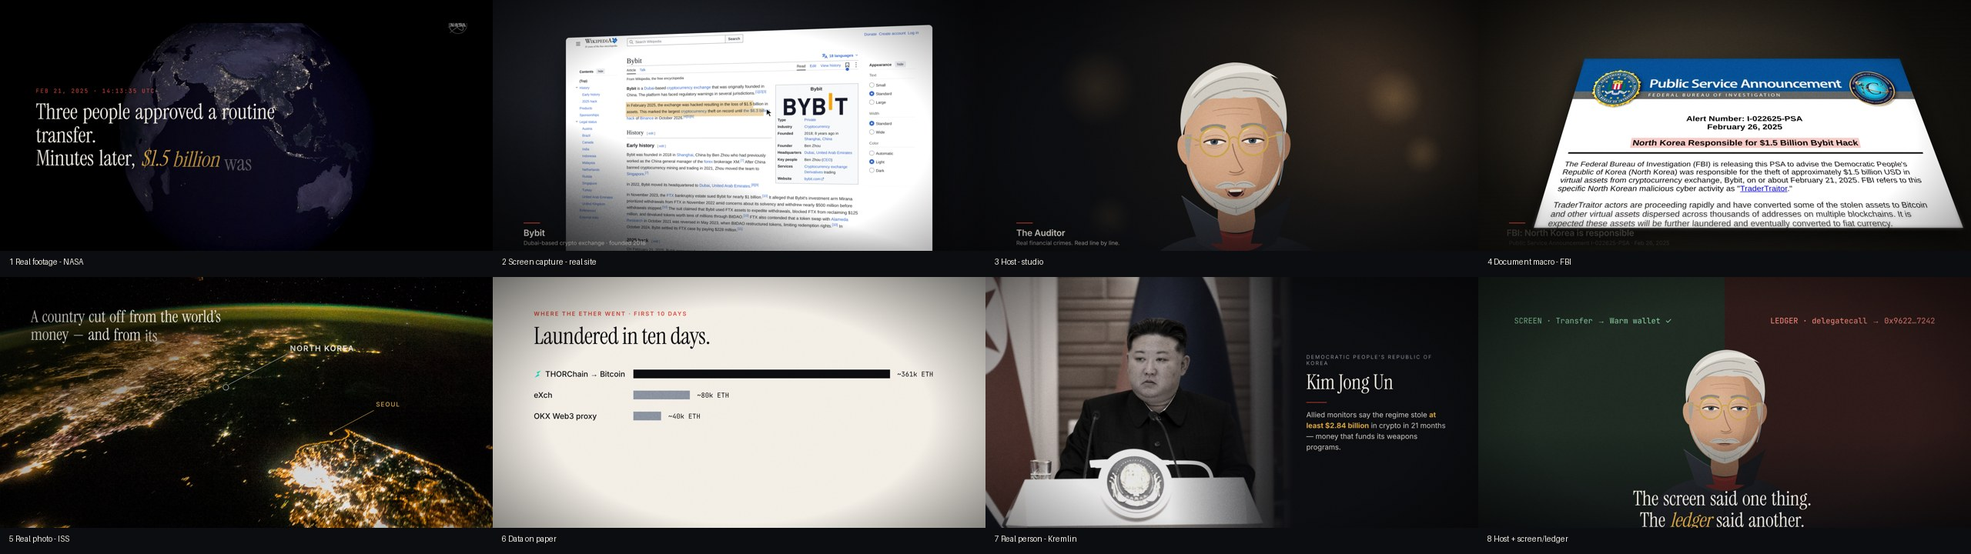
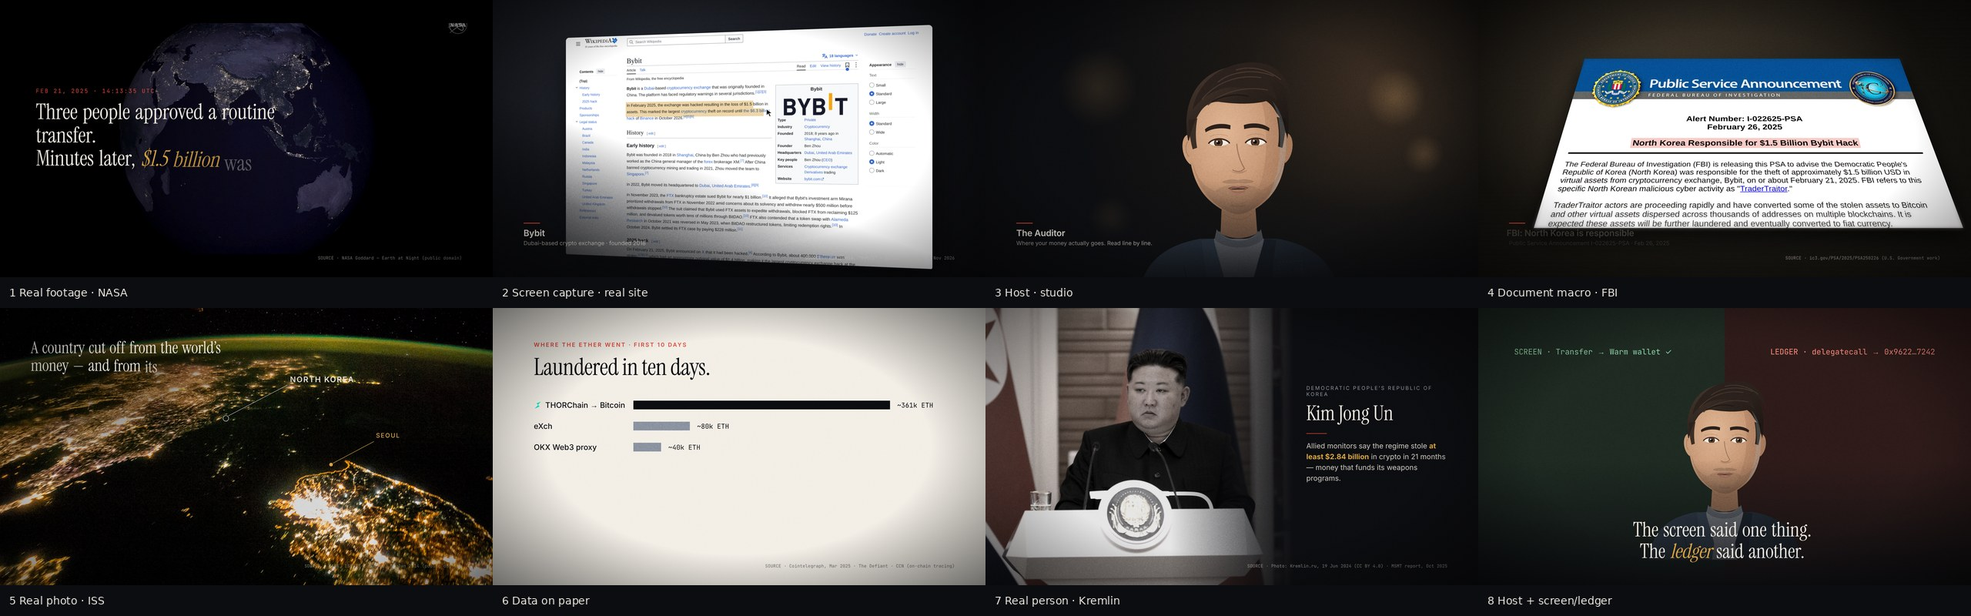
Broaden channel scope to everyday US money problems; host v4 (man in his early 30s); voice spec for 25-35 American male; re-render host stills
Claude-Session: https://claude.ai/code/session_01TRyNBdH3SN5VuDPpSJ3dtg

diff --git a/studio/src/host/Host.tsx b/studio/src/host/Host.tsx
@@ -2,128 +2,137 @@ import React from 'react';
 import { interpolate, useCurrentFrame } from 'remotion';
 import { noise2D } from '@remotion/noise';
 
-// THE AUDITOR — host v3.
-// Recognisable face: silver swept-back hair, short grey beard, round gold glasses,
-// oxblood scarf, charcoal overcoat with a raised collar. Light always from the left.
-// Driven by numbers so it can lip-sync to the real voice later (talk = mouth openness 0..1).
+// THE AUDITOR — host v4 (replaces the 60-year-old v3).
+// A man around 30 (25–35): dark brown hair, short sides, textured top pushed to one side;
+// light designer stubble; thick dark brows; brown eyes; no glasses.
+// Wardrobe: washed-navy chore jacket open over a heather-grey crew-neck tee — someone
+// who looks like the viewer, not a professor. Light always from the left, cool rim from the right.
+// Same pose API as v3, so every scene and the later lip-sync keep working.
 
 export type HostPose = {
   talk: number;   // 0 closed .. 1 wide
   blink: number;  // 0 open .. 1 closed
   look: number;   // -1 left .. 1 right (pupils)
   brow: number;   // 0 neutral .. 1 raised
-  smile: number;  // 0 .. 1 (knowing half-smile)
+  smile: number;  // 0 .. 1 (half-smile)
   tilt: number;   // head tilt in degrees
   nod: number;    // px vertical head offset
 };
 
 const K = {
-  skin: '#C99C7C', skinLit: '#DDB596', skinShade: '#9A6F55', skinDeep: '#7E5844',
-  hair: '#CFCBC3', hairShade: '#A29E96', beard: '#BCB7AE', beardShade: '#8F8A82',
-  iris: '#40525F', lid: '#3A2A22', gold: '#C9A24A', goldHi: '#F0D489',
-  coat: '#23262C', coatLit: '#30343C', coatDeep: '#18191D', scarf: '#7A2A25', scarfHi: '#94352E',
+  skin: '#C99A78', skinLit: '#E0B694', skinShade: '#A77A5C', skinDeep: '#86604A',
+  hair: '#2B211C', hairLit: '#4A3A30', hairShade: '#1A1411', stubble: '#3A2C24',
+  iris: '#5A3E2B', lid: '#3A2620', brow: '#2A1F1A', lip: '#A86A5C', lipDark: '#7E4A40',
+  jacket: '#2D3A48', jacketLit: '#3C4C5E', jacketDeep: '#1E2731', stitch: '#5D6E80',
+  tee: '#8C9097', teeShade: '#6E7279',
 };
 
 export const HostFigure: React.FC<{ p: HostPose; style?: React.CSSProperties }> = ({ p, style }) => {
   const eyeScale = 1 - 0.92 * p.blink;
-  const mouthH = 3 + p.talk * 24;
-  const mouthW = 50 - p.talk * 8 + p.smile * 6;
+  const mouthH = 2 + p.talk * 22;
+  const mouthW = 46 - p.talk * 8 + p.smile * 6;
   const lx = p.look * 6;
   const eye = (cx: number) => (
-    <g transform={`translate(${cx} 322) scale(1 ${eyeScale})`}>
-      <path d="M-28 0 C -16 -15, 16 -15, 28 0 C 16 10, -16 10, -28 0 Z" fill="#EEE6DA" />
-      <clipPath id={`e${cx}`}><path d="M-28 0 C -16 -15, 16 -15, 28 0 C 16 10, -16 10, -28 0 Z" /></clipPath>
+    <g transform={`translate(${cx} 326) scale(1 ${eyeScale})`}>
+      <path d="M-27 0 C -15 -16, 15 -16, 27 0 C 15 11, -15 11, -27 0 Z" fill="#F1EBE2" />
+      <clipPath id={`e${cx}`}><path d="M-27 0 C -15 -16, 15 -16, 27 0 C 15 11, -15 11, -27 0 Z" /></clipPath>
       <g clipPath={`url(#e${cx})`}>
-        <circle cx={lx} cy={-1} r={10.5} fill={K.iris} />
-        <circle cx={lx} cy={-1} r={4.6} fill="#0D0D0F" />
-        <circle cx={lx - 3.5} cy={-4.5} r={2.2} fill="#fff" opacity={0.9} />
-        <path d="M-30 -16 L 30 -16 L 30 -2 C 14 -7, -14 -7, -30 -2 Z" fill={K.skin} />
+        <circle cx={lx} cy={-1} r={11} fill={K.iris} />
+        <circle cx={lx} cy={-1} r={11} fill="none" stroke="#2E1F15" strokeWidth={1.6} />
+        <circle cx={lx} cy={-1} r={4.8} fill="#0D0B0A" />
+        <circle cx={lx - 3.5} cy={-4.5} r={2.4} fill="#fff" opacity={0.92} />
+        {/* upper lid shadow only — young eyes, not hooded */}
+        <path d="M-30 -17 L 30 -17 L 30 -9 C 14 -13, -14 -13, -30 -9 Z" fill={K.skin} />
       </g>
-      <path d="M-29 0 C -16 -8, 16 -8, 29 0" stroke={K.lid} strokeWidth={4.2} fill="none" strokeLinecap="round" />
-      <path d="M-26 -12 C -12 -20, 12 -20, 26 -12" stroke={K.skinDeep} strokeWidth={1.6} fill="none" opacity={0.55} />
-      <path d="M-20 12 C -8 18, 8 18, 20 12" stroke={K.skinDeep} strokeWidth={1.2} fill="none" opacity={0.4} />
-      <path d="M-22 7 C -10 12, 10 12, 22 7" stroke={K.skinDeep} strokeWidth={1.4} fill="none" opacity={0.6} />
+      <path d="M-28 0 C -16 -15, 16 -15, 28 0" stroke={K.lid} strokeWidth={3.8} fill="none" strokeLinecap="round" />
+      <path d="M-24 -18 C -10 -25, 10 -25, 24 -18" stroke={K.skinDeep} strokeWidth={1.4} fill="none" opacity={0.4} />
+      <path d="M-20 9 C -8 13, 8 13, 20 9" stroke={K.skinDeep} strokeWidth={1.1} fill="none" opacity={0.35} />
     </g>
+  );
+  const shut = (cx: number) => p.blink > 0.6 && (
+    <path d={`M${cx - 27} 325 C ${cx - 12} 333, ${cx + 12} 333, ${cx + 27} 325`} stroke={K.lid} strokeWidth={3.6} fill="none" strokeLinecap="round" />
   );
   return (
     <svg viewBox="0 0 600 760" style={style}>
       <defs>
-        <radialGradient id="skin" cx="38%" cy="35%" r="70%">
+        <radialGradient id="skin4" cx="38%" cy="35%" r="70%">
           <stop offset="0%" stopColor={K.skinLit} />
           <stop offset="60%" stopColor={K.skin} />
           <stop offset="100%" stopColor={K.skinShade} />
         </radialGradient>
-        <linearGradient id="coat" x1="0" x2="1">
-          <stop offset="0%" stopColor={K.coatLit} /><stop offset="55%" stopColor={K.coat} /><stop offset="100%" stopColor={K.coatDeep} />
+        <linearGradient id="jacket4" x1="0" x2="1">
+          <stop offset="0%" stopColor={K.jacketLit} /><stop offset="55%" stopColor={K.jacket} /><stop offset="100%" stopColor={K.jacketDeep} />
         </linearGradient>
-        <linearGradient id="lens" x1="0" x2="1" y1="0" y2="1">
-          <stop offset="0%" stopColor="#fff" stopOpacity={0.16} /><stop offset="45%" stopColor="#fff" stopOpacity={0.02} /><stop offset="100%" stopColor="#fff" stopOpacity={0.08} />
+        <linearGradient id="hair4" x1="0" x2="1" y1="0" y2="1">
+          <stop offset="0%" stopColor={K.hairLit} /><stop offset="50%" stopColor={K.hair} /><stop offset="100%" stopColor={K.hairShade} />
         </linearGradient>
+        <radialGradient id="stubble4" cx="50%" cy="30%" r="75%">
+          <stop offset="55%" stopColor={K.stubble} stopOpacity={0.12} />
+          <stop offset="100%" stopColor={K.stubble} stopOpacity={0.34} />
+        </radialGradient>
       </defs>
 
-      {/* body: coat + raised collar + scarf */}
-      <path d="M20 760 C 30 650, 90 600, 190 580 L 410 580 C 510 600, 570 650, 580 760 Z" fill="url(#coat)" />
-      <path d="M300 600 L 300 760" stroke={K.coatDeep} strokeWidth={5} />
-      <path d="M196 600 L 150 470 C 190 500, 220 520, 250 535 L 300 650 Z" fill={K.coatLit} />
-      <path d="M404 600 L 450 470 C 410 500, 380 520, 350 535 L 300 650 Z" fill={K.coatDeep} />
-      <path d="M150 470 C 190 500, 220 520, 250 535" stroke="#4E5460" strokeWidth={2.5} fill="none" />
-      <path d="M232 540 C 260 585, 340 585, 368 540 L 372 600 C 340 630, 260 630, 228 600 Z" fill={K.scarf} />
-      <path d="M240 560 C 270 590, 330 590, 360 560" stroke={K.scarfHi} strokeWidth={6} fill="none" opacity={0.7} />
+      {/* body: grey tee + open navy chore jacket */}
+      <path d="M24 760 C 34 652, 96 604, 196 586 L 404 586 C 504 604, 566 652, 576 760 Z" fill="url(#jacket4)" />
+      <path d="M232 586 L 368 586 L 346 760 L 254 760 Z" fill={K.tee} />
+      <path d="M300 640 L 300 760" stroke={K.teeShade} strokeWidth={2} opacity={0.35} />
+      <path d="M240 560 C 262 600, 338 600, 360 560 L 366 586 C 340 618, 260 618, 234 586 Z" fill={K.teeShade} />
+      <path d="M246 566 C 268 598, 332 598, 354 566" stroke="#A3A7AD" strokeWidth={4} fill="none" opacity={0.55} />
+      {/* jacket lapels (soft collar, folded down) */}
+      <path d="M198 590 L 230 586 L 262 700 L 254 760 L 210 760 C 214 700, 206 640, 198 590 Z" fill={K.jacketLit} />
+      <path d="M402 590 L 370 586 L 338 700 L 346 760 L 390 760 C 386 700, 394 640, 402 590 Z" fill={K.jacketDeep} />
+      <path d="M232 588 L 262 700 M368 588 L 338 700" stroke={K.stitch} strokeWidth={1.8} strokeDasharray="5 5" opacity={0.6} />
+      <path d="M150 660 C 160 700, 165 730, 168 760 M450 660 C 440 700, 435 730, 432 760" stroke={K.jacketDeep} strokeWidth={3} fill="none" opacity={0.7} />
+      {/* chest pocket */}
+      <path d="M408 650 L 470 646 L 474 700 L 412 704 Z" fill="none" stroke={K.stitch} strokeWidth={1.6} strokeDasharray="5 5" opacity={0.5} />
 
       <g transform={`translate(0 ${p.nod}) rotate(${p.tilt} 300 560)`}>
-        {/* neck */}
-        <path d="M252 470 L 348 470 L 352 560 C 320 575, 280 575, 248 560 Z" fill={K.skinShade} />
+        {/* neck — longer, leaner */}
+        <path d="M256 470 L 344 470 L 350 572 C 320 590, 280 590, 250 572 Z" fill={K.skinShade} />
+        <path d="M262 520 C 290 540, 312 540, 338 520" stroke={K.skinDeep} strokeWidth={2} fill="none" opacity={0.35} />
         {/* ears */}
-        <path d="M168 300 C 140 295, 138 360, 168 382 Z" fill={K.skin} />
-        <path d="M432 300 C 460 295, 462 360, 432 382 Z" fill={K.skinShade} />
-        {/* head */}
-        <path d="M300 168 C 388 168, 436 232, 436 330 C 436 430, 388 512, 300 522 C 212 512, 164 430, 164 330 C 164 232, 212 168, 300 168 Z" fill="url(#skin)" />
-        <path d="M352 182 C 410 205, 436 262, 436 330 C 436 430, 388 512, 300 522 C 350 490, 380 420, 380 330 C 380 260, 372 215, 352 182 Z" fill={K.skinShade} opacity={0.45} />
-        {/* forehead lines (age, wisdom) */}
-        <path d="M245 238 C 280 230, 320 230, 355 238" stroke={K.skinDeep} strokeWidth={1.6} fill="none" opacity={0.45} />
-        <path d="M255 252 C 285 246, 315 246, 345 252" stroke={K.skinDeep} strokeWidth={1.4} fill="none" opacity={0.35} />
-        {/* hair: silver, swept back, receding */}
-        <path d="M160 310 C 140 200, 205 112, 305 108 C 410 110, 465 195, 440 310 C 436 280, 428 258, 414 246 C 400 232, 392 212, 372 206 C 350 200, 330 210, 305 202 C 280 210, 258 200, 236 206 C 214 212, 204 232, 188 246 C 174 258, 164 282, 160 310 Z" fill={K.hair} />
-        <path d="M186 196 C 226 112, 344 88, 426 156 C 362 122, 262 128, 186 196 Z" fill="#E6E3DC" />
-        <path d="M196 200 C 240 150, 310 138, 372 158 M212 220 C 256 180, 326 168, 398 190 M186 252 C 205 210, 245 188, 292 184 M330 186 C 370 186, 405 200, 425 232" stroke={K.hairShade} strokeWidth={3} fill="none" strokeLinecap="round" />
-        <path d="M168 300 C 166 335, 170 360, 176 372 L 186 300 Z" fill={K.hairShade} />
-        <path d="M432 300 C 434 335, 430 360, 424 372 L 414 300 Z" fill={K.hairShade} />
-        {/* brows */}
-        <g transform={`translate(0 ${-p.brow * 7})`}>
-          <path d="M210 286 C 228 272, 258 270, 280 280 L 278 288 C 258 281, 230 283, 212 294 Z" fill="#8C877F" />
-          <path d="M390 286 C 372 272, 342 270, 320 280 L 322 288 C 342 281, 370 283, 388 294 Z" fill="#8C877F" />
+        <path d="M172 302 C 144 296, 142 362, 172 384 Z" fill={K.skin} />
+        <path d="M428 302 C 456 296, 458 362, 428 384 Z" fill={K.skinShade} />
+        <path d="M166 320 C 156 330, 158 352, 168 362" stroke={K.skinDeep} strokeWidth={2} fill="none" opacity={0.5} />
+        {/* head — leaner cheeks, defined jaw and chin */}
+        <path d="M300 170 C 386 170, 432 232, 432 326 C 432 400, 412 450, 378 482 C 352 506, 330 518, 300 520 C 270 518, 248 506, 222 482 C 188 450, 168 400, 168 326 C 168 232, 214 170, 300 170 Z" fill="url(#skin4)" />
+        <path d="M352 184 C 408 206, 432 262, 432 326 C 432 400, 412 450, 378 482 C 352 506, 330 518, 300 520 C 342 494, 376 430, 378 330 C 380 262, 372 216, 352 184 Z" fill={K.skinShade} opacity={0.42} />
+        {/* stubble: short, even, follows the jaw (no moustache block) */}
+        <path d="M176 372 C 184 432, 214 474, 250 500 C 270 514, 286 520, 300 520 C 314 520, 330 514, 350 500 C 386 474, 416 432, 424 372 C 414 420, 392 446, 362 456 C 346 444, 322 438, 300 440 C 278 438, 254 444, 238 456 C 208 446, 186 420, 176 372 Z" fill="url(#stubble4)" />
+        <path d="M256 432 C 272 424, 290 424, 300 428 C 310 424, 328 424, 344 432 C 334 438, 316 438, 300 436 C 284 438, 266 438, 256 432 Z" fill={K.stubble} opacity={0.22} />
+        <path d="M282 496 C 292 500, 308 500, 318 496" stroke={K.stubble} strokeWidth={6} opacity={0.12} strokeLinecap="round" />
+        {/* hair: full hairline, short tapered sides, textured top pushed to his left */}
+        <path d="M166 318 C 152 240, 176 168, 236 136 C 268 118, 318 112, 360 124 C 420 142, 452 200, 436 318 C 430 286, 422 264, 408 248 C 400 232, 392 222, 380 214 C 350 222, 300 222, 252 214 C 230 212, 210 224, 198 244 C 186 262, 176 286, 168 318 Z" fill="url(#hair4)" />
+        <path d="M180 234 C 190 170, 250 112, 336 108 C 404 106, 444 150, 446 200 C 430 168, 400 150, 370 146 C 392 162, 404 184, 408 212 C 380 186, 330 172, 276 176 C 240 180, 206 200, 180 234 Z" fill={K.hair} />
+        <path d="M206 206 C 246 160, 306 140, 366 150 M222 222 C 262 186, 322 172, 384 184 M250 160 C 290 130, 350 126, 400 146 M300 128 C 336 118, 380 124, 420 156" stroke={K.hairLit} strokeWidth={3} fill="none" strokeLinecap="round" opacity={0.85} />
+        <path d="M232 214 C 262 196, 300 192, 330 200" stroke={K.hairShade} strokeWidth={4} fill="none" strokeLinecap="round" opacity={0.7} />
+        {/* sideburns: short, tapered, in front of the ears */}
+        <path d="M168 262 C 168 290, 172 318, 178 342 L 190 338 C 186 314, 186 288, 192 258 Z" fill={K.hair} opacity={0.9} />
+        <path d="M432 262 C 432 290, 428 318, 422 342 L 410 338 C 414 314, 414 288, 408 258 Z" fill={K.hairShade} opacity={0.9} />
+        {/* brows — thick, dark, straight */}
+        <g transform={`translate(0 ${-p.brow * 8})`}>
+          <path d="M212 290 C 228 276, 258 272, 282 280 L 281 291 C 258 285, 232 287, 214 298 Z" fill={K.brow} />
+          <path d="M388 290 C 372 276, 342 272, 318 280 L 319 291 C 342 285, 368 287, 386 298 Z" fill={K.brow} />
         </g>
-        {eye(248)}{eye(352)}
-        {/* crow's feet */}
-        <path d="M282 330 m 0 0 M206 320 l -12 -6 M206 328 l -13 2 M394 320 l 12 -6 M394 328 l 13 2" stroke={K.skinDeep} strokeWidth={1.5} opacity={0.5} />
-        {/* nose */}
-        <path d="M296 330 C 300 360, 312 385, 322 400 C 312 410, 296 410, 286 404" stroke={K.skinDeep} strokeWidth={3} fill="none" strokeLinecap="round" opacity={0.75} />
-        <path d="M270 402 C 280 414, 300 416, 330 404 C 320 418, 290 422, 270 402 Z" fill={K.skinDeep} opacity={0.5} />
-        {/* beard (short, trimmed) */}
-        <path d="M176 380 C 182 450, 230 512, 300 524 C 370 512, 418 450, 424 380 C 410 430, 384 456, 350 462 C 335 486, 265 486, 250 462 C 216 456, 190 430, 176 380 Z" fill={K.beard} />
-        <path d="M200 430 C 220 470, 255 498, 300 506 M400 430 C 380 470, 345 498, 300 506 M240 488 l 6 14 M300 500 l 0 16 M360 488 l -6 14" stroke={K.beardShade} strokeWidth={2.4} fill="none" strokeLinecap="round" opacity={0.8} />
-        {/* mouth */}
+        {eye(250)}{eye(350)}{shut(250)}{shut(350)}
+        {/* nose — straighter, cleaner */}
+        <path d="M298 330 C 300 358, 308 380, 318 396 C 310 406, 296 406, 286 400" stroke={K.skinDeep} strokeWidth={2.8} fill="none" strokeLinecap="round" opacity={0.7} />
+        <path d="M274 398 C 284 408, 302 410, 326 400 C 316 412, 290 414, 274 398 Z" fill={K.skinDeep} opacity={0.42} />
+        {/* cheek light */}
+        <ellipse cx={232} cy={384} rx={34} ry={20} fill="#F0C6A4" opacity={0.07} />
+        {/* mouth: visible lips, no moustache */}
         <g transform={`translate(300 ${452 + p.talk * 4})`}>
           <ellipse cx={0} cy={mouthH / 2 - 2} rx={mouthW / 2} ry={mouthH / 2} fill="#2A1513" />
-          {p.talk > 0.3 && <rect x={-mouthW / 2 + 6} y={-2} width={mouthW - 12} height={Math.min(7, mouthH / 3)} rx={3} fill="#E6DED0" />}
-          <path d={`M${-mouthW / 2 - 4} ${-1 - p.smile * 5} C -10 ${mouthH + 6}, 10 ${mouthH + 6}, ${mouthW / 2 + 4} ${-1 - p.smile * 7}`} stroke="#A2685A" strokeWidth={4} fill="none" strokeLinecap="round" />
+          {p.talk > 0.3 && <rect x={-mouthW / 2 + 6} y={-2} width={mouthW - 12} height={Math.min(7, mouthH / 3)} rx={3} fill="#EDE6DA" />}
+          <path d={`M${-mouthW / 2 - 2} ${-1 - p.smile * 4} C -14 -8, -4 -5, 0 -4 C 4 -5, 14 -8, ${mouthW / 2 + 2} ${-1 - p.smile * 6}`} stroke={K.lipDark} strokeWidth={3} fill="none" strokeLinecap="round" />
+          <path d={`M${-mouthW / 2 + 4} ${mouthH - 1} C -10 ${mouthH + 9}, 10 ${mouthH + 9}, ${mouthW / 2 - 4} ${mouthH - 1}`} stroke={K.lip} strokeWidth={5} fill="none" strokeLinecap="round" opacity={0.75} />
+          <path d={`M${mouthW / 2 + 2} ${-1 - p.smile * 6} l 5 ${-2 - p.smile * 3}`} stroke={K.skinDeep} strokeWidth={2} strokeLinecap="round" opacity={0.3 + p.smile * 0.4} />
         </g>
-        {/* moustache */}
-        <path d="M244 446 C 262 426, 290 428, 300 438 C 310 428, 338 426, 356 446 C 340 452, 320 450, 300 446 C 280 450, 260 452, 244 446 Z" fill={K.beard} />
-        <path d="M252 444 C 268 434, 288 434, 298 442 M348 444 C 332 434, 312 434, 302 442" stroke={K.beardShade} strokeWidth={2} fill="none" />
-        {/* cool rim light, right side: cinematic two-light look */}
-        <path d="M430 262 C 440 300, 440 380, 418 444" stroke="#A9BED2" strokeWidth={3.5} fill="none" opacity={0.55} strokeLinecap="round" />
-        {/* glasses */}
-        <g stroke={K.gold} fill="url(#lens)" strokeWidth={4.5}>
-          <circle cx={248} cy={322} r={40} /><circle cx={352} cy={322} r={40} />
-        </g>
-        <path d="M288 318 C 294 308, 306 308, 312 318" stroke={K.gold} strokeWidth={4} fill="none" />
-        <path d="M208 316 L 168 306 M392 316 L 432 306" stroke={K.gold} strokeWidth={3.5} />
-        <path d="M222 296 L 236 290 M326 296 L 340 290" stroke={K.goldHi} strokeWidth={3} strokeLinecap="round" opacity={0.9} />
-      </g>
-      {/* collar front layer so it frames the jaw */}
-      <path d="M196 600 L 160 488 C 196 514, 222 530, 250 540 L 262 600 Z" fill={K.coatLit} opacity={0.96} />
-      <path d="M404 600 L 440 488 C 404 514, 378 530, 350 540 L 338 600 Z" fill={K.coatDeep} opacity={0.96} />
+        {/* chin shadow */}
+        <path d="M280 488 C 292 494, 308 494, 320 488" stroke={K.skinDeep} strokeWidth={2} fill="none" opacity={0.35} />
+        {/* cool rim: soft edge wash instead of a hard line */}
+        <path d="M432 326 C 432 400, 412 450, 378 482 C 400 440, 414 390, 416 330 C 418 280, 410 240, 396 214 C 420 240, 432 280, 432 326 Z" fill="#A9BED2" opacity={0.22} />
+              </g>
     </svg>
   );
 };

diff --git a/studio/src/boards/Boards.tsx b/studio/src/boards/Boards.tsx
@@ -23,8 +23,8 @@ export const BoardCharacter: React.FC = () => {
   const ex: [string, string, Partial<HostPose>][] = [
     ['Neutral', 'default · listening', {}],
     ['Speaking', 'mouth driven by voice', { talk: 0.75 }],
-    ['Skeptical', 'one beat before a reveal', { brow: 0.9, smile: 0, look: 0.5 }],
-    ['Knowing smile', 'end of a chapter', { smile: 0.9, tilt: -4 }],
+    ['Skeptical', 'one beat before the bill', { brow: 0.9, smile: 0, look: 0.5 }],
+    ['Half-smile', 'end of a chapter', { smile: 0.9, tilt: -4 }],
     ['Side glance', 'looks at the evidence', { look: -1, tilt: 3 }],
     ['Blink', 'every ~3 s, never frozen', { blink: 1 }],
   ];
@@ -32,7 +32,7 @@ export const BoardCharacter: React.FC = () => {
     <AbsoluteFill style={{ background: `radial-gradient(circle at 80% 15%, #2B2219, ${C.ink} 60%)` }}>
       <Header kicker="MAIN CHARACTER · HOST" title="The Auditor" />
       <div style={{ position: 'absolute', right: 110, top: 96, width: 640, fontFamily: F.sans, fontSize: 21, lineHeight: 1.55, color: 'rgba(236,231,222,.75)' }}>
-        Silver swept-back hair, short grey beard, round gold glasses, hooded eyes, oxblood scarf, charcoal overcoat with a raised collar. Warm key light from the left, cool rim from the right. On screen only 10–15% of an episode.
+        Early 30s. Dark brown hair, short sides, textured top; light stubble; thick dark brows; brown eyes. Washed-navy chore jacket over a grey tee: he looks like the viewer. Warm key light from the left, cool rim from the right. On screen only 10–15% of an episode.
       </div>
       <div style={{ position: 'absolute', left: 60, right: 60, top: 300, display: 'flex', justifyContent: 'space-between' }}>
         {ex.map(([t, s, p]) => (

diff --git a/studio/src/scenes/Scenes.tsx b/studio/src/scenes/Scenes.tsx
@@ -69,7 +69,7 @@ export const S3Host: React.FC = () => {
         <Host seed="intro" look={-0.15} smile={0.3} style={{ width: 860 }} />
       </div>
       <AbsoluteFill style={{ background: 'linear-gradient(0deg, rgba(12,13,16,.85), transparent 35%)' }} />
-      <LowerThird at={18} title="The Auditor" sub="Real financial crimes. Read line by line." />
+      <LowerThird at={18} title="The Auditor" sub="Where your money actually goes. Read line by line." />
     </AbsoluteFill>
   );
 };

diff --git a/style/STYLE-v3.md b/style/STYLE-v3.md
@@ -10,7 +10,7 @@
 | قالب واحد وخلفية واحدة وزاوية واحدة | **8 أنواع لقطات** (القائمة أدناه)، ولا يتكرر النوع نفسه مرتين متتاليتين |
 | أيقونات كرتونية ومشبعة | لا أيقونات مرسومة تقريباً. الشعارات الحقيقية فقط، وبحجم صغير. والخطوط التوضيحية رفيعة (1.5px) فوق صور حقيقية |
 | كل شيء رسوم | **مواد حقيقية أولاً:** فيديو NASA، وصور ISS، ولقطات شاشة حقيقية من Wikipedia وic3.gov، وصور الكرملين، وأوراق نقدية رسمية |
-| شخصية بلا وجه | **المضيف v3:** رجل حكيم بشعر فضي ولحية قصيرة ونظارة ذهبية مستديرة. يتكلم ويرمش ويتنفس ويحرك رأسه |
+| شخصية بلا وجه | **المضيف v4:** رجل في أوائل الثلاثينات بجاكيت كحلي (القسم 5). يتكلم ويرمش ويتنفس ويحرك رأسه |
 | عربي وكحلي | **إنجليزي**، وألوان سينمائية منخفضة التشبع |
 | حركة متقطعة | كاميرا تتحرك دائماً (push، dolly، Ken Burns، ميلان ثلاثي الأبعاد)، فلا يبقى إطار ثابتاً أبداً |
 | ثقل الإحساس بأنه "قالب ذكاء اصطناعي" | قواعد مونتاج بشري (القسم 4) + حبيبات فيلم + تدرج لوني + نقص متعمّد |
@@ -63,13 +63,15 @@
 7. **لحظات صمت:** نصف ثانية من الصوت المحيط فقط بعد الجمل الثقيلة. التنفس جزء من المونتاج.
 8. **تصميم الصوت (عند وصول التسجيل):** room tone، وwhoosh خفيف للـ whip، وضغطة مفتاح عند ظهور المؤشر، وصمت قبل الكشف.
 
-## 5. المضيف v3: The Auditor
+## 5. المضيف v4: The Auditor (حلّ محل v3 في 4 نوفمبر 2026)
 
-الكود في `studio/src/host/Host.tsx`.
-- **المظهر:** رجل في الستين تقريباً، بشعر فضي ممشّط للخلف، ولحية رمادية قصيرة، ونظارة ذهبية مستديرة، وجفون نصف مسدلة (نظرة من يعرف أكثر مما يقول)، ووشاح خمري، ومعطف فحمي بياقة مرفوعة. ضوء دافئ من اليسار وحافة ضوء باردة من اليمين.
+الكود في `studio/src/host/Host.tsx`، واللوحة في `style/v3-images/BoardCharacter.png`.
+- **المظهر:** رجل في أوائل الثلاثينات (بين 25 و35)، بشعر بني داكن، وجانبين قصيرين، وأعلى مموّج مدفوع إلى جهة واحدة. ولحية خفيفة جداً (stubble)، وحاجبان داكنان كثيفان، وعينان بنيتان، وبلا نظارة. يلبس جاكيت عمل (chore jacket) كحلياً باهتاً فوق تيشيرت رمادي. **يشبه المشاهد، لا أستاذاً.** ضوء دافئ من اليسار، ولمعة باردة ناعمة من اليمين.
+- **لماذا تغيّر:** القناة أصبحت عن المشاكل المالية اليومية للأمريكيين (`docs/CHANNEL.md`)، والجمهور بين 22 و45 سنة. مضيف في عمرهم يزيد الثقة.
 - **الحركة (لا يتجمد أبداً):** تنفس، وحركة رأس دقيقة، ورمش كل 3 ثوانٍ تقريباً، ونظرات جانبية، وحركة حاجبين.
-- **الكلام:** الفم الآن يتحرك بإيقاع تقريبي. **بعد تسجيل صوتك، أربط فتحة الفم بقوة الصوت الحقيقية إطاراً بإطار**، فيصبح مزامناً لكلامك.
-- **متى يظهر:** المقدمة، ولحظات التعليق ("Notice what's happening")، والخاتمة. أي 10 إلى 15% من الحلقة فقط. البقية مواد حقيقية.
+- **الكلام:** الواجهة البرمجية (`HostPose`) لم تتغير، فكل المشاهد تعمل كما هي. **بعد وصول الصوت، أربط فتحة الفم بقوة الصوت إطاراً بإطار.**
+- **الصوت:** رجل أمريكي بين 25 و35 سنة. المواصفات والمرشّحون في `style/VOICE.md`.
+- **متى يظهر:** المقدمة، ولحظات التعليق، ومقطع "What this means for you"، والخاتمة. أي 10 إلى 15% من الحلقة.
 
 ## 6. مصادر المواد الحقيقية (مرتبة حسب الأمان)
 

diff --git a/docs/CHANNEL.md b/docs/CHANNEL.md
@@ -1,0 +1,34 @@
+# The Auditor: نطاق القناة الجديد
+
+> **تغيّر في 4 نوفمبر 2026:** القناة لم تعد عن «الجرائم المالية» فقط. أصبحت عن **المشاكل المالية التي تصيب أي شخص عادي، وخاصة الأمريكيين**. الجرائم الكبرى (مثل Bybit) تبقى جزءاً منها، لكن الزاوية دائماً هي: **ماذا يعني هذا لمحفظتك أنت؟**
+
+## الوعد (سطر القناة)
+**"Where your money actually goes. Read line by line."**
+الـ lower third في مشهد المضيف تغيّر إلى هذا السطر.
+
+## المشاهد المستهدف
+أمريكي بين 22 و45 سنة، براتب شهري، عنده بطاقة ائتمان أو قرض أو إيجار. لا يحتاج خلفية مالية. يريد أن يفهم لماذا تزيد فاتورته، ومن يأخذ ماله، وكيف يحمي نفسه.
+
+## المحاور الخمسة (كل حلقة تنتمي إلى محور واحد)
+
+| # | المحور | أمثلة حلقات | المصادر الرئيسية (ملك عام أمريكي، PD-US) |
+|---|---|---|---|
+| 1 | **الاحتيال والسرقة** | Bybit، وسرقة Binance 2026، واحتيال الرسائل النصية، وpig butchering | FBI IC3 (تقرير الإنترنت السنوي)، وFTC Consumer Sentinel، وبيانات وزارة العدل DOJ |
+| 2 | **الديون والفوائد** | لماذا لا تنتهي بطاقة الائتمان؟ وBuy Now Pay Later، وقروض الطلاب | CFPB (التقارير والشكاوى)، وNew York Fed (تقرير ديون الأسر الربعي)، وStudentAid.gov |
+| 3 | **فواتير الحياة اليومية** | الرسوم الخفية (junk fees)، والفواتير الطبية، والتأمين، والإيجار | CFPB، وFTC، وCMS.gov، وCensus (American Community Survey)، وBLS (مؤشر CPI) |
+| 4 | **النظام نفسه** | التضخم، وانهيار البنوك (SVB 2023)، وما يضمنه FDIC فعلاً | Federal Reserve، وFDIC، وBLS، وTreasury |
+| 5 | **الشركات حين تخطئ** | FTX، وWells Fargo والحسابات الوهمية، وتسوية Equifax | SEC (الدعاوى)، وCFPB (أوامر التنفيذ)، وCourtListener |
+
+**قاعدة التوازن:** من كل 4 حلقات، حلقة واحدة فقط «جريمة كبرى»، والثلاث الأخرى مشاكل يومية. الجريمة الكبرى تجذب المشاهدين، والمشاكل اليومية تبني الاشتراك.
+
+## ما يتغير في كل حلقة
+1. **الافتتاحية** تبدأ بشخص عادي أو بفاتورة، لا بالرقم الكبير وحده.
+2. **مقطع "What this means for you"** قبل الخاتمة (من 45 إلى 90 ثانية). خطوات عملية مصدرها جهة رسمية (مثل: الإبلاغ على reportfraud.ftc.gov وic3.gov، وتجميد الائتمان مجاناً).
+3. **لا نصائح استثمار.** نشرح ونوثّق فقط. ونضع في الوصف: *"Educational content, not financial advice."*
+
+## الحلقة 01 (Bybit) تحت النطاق الجديد
+السكريبت الحالي يبقى صالحاً (المحور 1). التعديل المقترح، **ولم يُنفَّذ بعد إلا إذا طلبته**: إضافة مقطع "What this means for you" عن كيف تصل أموال المحتالين الكوريين الشماليين إلى أمريكيين عاديين (عروض عمل مزيفة، وانتحال شخصيات موظفين IT)، ومصدره بيانات FBI العامة.
+
+## تنبيه حقوق
+- شعارات الجهات الحكومية وأختامها (FBI، FTC، CFPB، Federal Reserve) **محمية بقوانين منفصلة**. نعرض الوثيقة الحقيقية كدليل، لكن لا نستعمل الختم كزخرفة أو في الصورة المصغّرة.
+- البيانات والأرقام نعيد رسمها بأسلوبنا (لقطة النوع 6)، ونضع سطر `SOURCE ·` دائماً.

diff --git a/docs/HANDOFF.md b/docs/HANDOFF.md
@@ -1,4 +1,4 @@
-أكمل العمل على قناتي الوثائقية على YouTube عن الجرائم المالية الحقيقية. اسمها المؤقت **The Auditor**، ولغتها **الإنجليزية**.
+أكمل العمل على قناتي الوثائقية على YouTube عن **المشاكل المالية التي تمس أي إنسان، وخاصة الأمريكيين** (والجرائم المالية جزء منها، انظر `docs/CHANNEL.md`). اسمها المؤقت **The Auditor**، ولغتها **الإنجليزية**.
 
 **المستودع:** `yamnaymna1212-sketch/YouTube`، الفرع `claude/eloquent-goodall-ljew33`. اقرأ أولاً `README.md` و`style/STYLE-v3.md`.
 
@@ -8,7 +8,7 @@
 - يجب ألا يبدو العمل كأنه ذكاء اصطناعي، بل مونتاج بشري احترافي: لقطات وخلفيات وزوايا متنوعة، وحركة مستمرة، وشعارات حقيقية بلا أيقونات كرتونية.
 
 ## ما هو موجود
-- `studio/`: مشروع Remotion 4.0.540. فيه المضيف v3 في `src/host/Host.tsx` (رجل حكيم بشعر فضي ولحية قصيرة ونظارة ذهبية ووشاح خمري ومعطف بياقة مرفوعة، يرمش ويتكلم)، و8 مشاهد في `src/scenes/Scenes.tsx`، والـ boards في `src/boards/Boards.tsx`، والألوان والخطوط في `src/theme.ts`.
+- `studio/`: مشروع Remotion 4.0.540. فيه المضيف v4 في `src/host/Host.tsx` (رجل في أوائل الثلاثينات بشعر بني داكن ولحية خفيفة جداً وجاكيت كحلي فوق تيشيرت رمادي، يرمش ويتكلم)، و8 مشاهد في `src/scenes/Scenes.tsx`، والـ boards في `src/boards/Boards.tsx`، والألوان والخطوط في `src/theme.ts`.
   - صورة ثابتة: `npx remotion still src/index.ts <ID> out.png --browser-executable=/opt/pw-browsers/chromium`
   - المعرّفات: `BoardCharacter`، `BoardIcons`، و`StyleReel --frame=N`
 - `style/v3-images/`: صور الستايل الحالية: الشخصية، والخلفيات وأنواع اللقطات الثمانية، والأيقونات والألوان.
@@ -23,7 +23,12 @@
 
 ## ما زال ناقصاً
 - صورة مرخّصة لـ Ben Zhou، وشعارات Chainalysis وElliptic، ورقم القضية في المحكمة، وتقرير MSMT الأصلي.
-- تسجيل صوتي بصوتي (لم يُسجَّل بعد).
+- الصوت: رجل أمريكي بين 25 و35 (`style/VOICE.md`). إما تسجيلي أنا، أو صوت ElevenLabs (المرشّح Justin). لم يُختر بعد.
+
+## تم في 4 نوفمبر 2026
+- توسيع نطاق القناة (`docs/CHANNEL.md`)، وتغيير سطر الـ lower third إلى "Where your money actually goes. Read line by line."
+- المضيف v4 (رجل في الثلاثينات) بدلاً من v3. أُعيد رندر `BoardCharacter.png` و`shot-03.png` و`shot-08.png` و`BoardBackgrounds.jpg` كصور ثابتة فقط.
+- مواصفات الصوت (`style/VOICE.md`).
 
 ## التعديلات التي أريدها الآن
 [اكتب هنا ما تريد تغييره]

diff --git a/style/VOICE.md b/style/VOICE.md
@@ -1,0 +1,29 @@
+# الصوت: The Auditor v4
+
+> يطابق المضيف الجديد: **رجل بين 25 و35 سنة، بلكنة أمريكية.**
+
+## المواصفات
+| البند | المطلوب |
+|---|---|
+| العمر المسموع | من 28 إلى 34 تقريباً. ليس مذيعاً كبيراً ولا يوتيوبر متحمساً |
+| اللكنة | General American (محايدة) |
+| النبرة | متوسطة إلى منخفضة قليلاً، ودافئة. بلا "صوت إعلان" |
+| الإيقاع | 140 إلى 155 كلمة في الدقيقة، وصمت قصير بعد الأرقام الثقيلة (// و/// في السكريبت) |
+| الإحساس | صديق يفهم في المال، يجلس معك ويقرأ الفاتورة سطراً سطراً. فضول وهدوء، وغضب خفيف عند الظلم، بلا دراما |
+| ممنوع | الحماس المصطنع، وصيحات "Hey guys"، ونبرة الرعب في True Crime |
+
+## الخيار A (الأفضل): صوتك أنت
+إن كان عمرك في هذا المدى، فصوتك هو الأصدق. تعليمات التسجيل موجودة في `episodes/ep01-bybit/materials.md` (WAV بدقة 48kHz/24-bit مونو، وملف لكل فصل). وبعد التسجيل أربط فم المضيف بقوة الصوت إطاراً بإطار.
+
+## الخيار B: صوت ElevenLabs جاهز (مرشّحون من مكتبة حسابك)
+لم أولّد أي صوت بعد، لأن التوليد يستهلك رصيدك. هذه 3 أصوات مصنّفة **young / American / male** في حسابك:
+
+| الاسم | voice_id | لماذا |
+|---|---|---|
+| **Justin – Authentic Professional** ⭐ | `bbhjR3iQ4dSHKQsgUFCH` | هادئ وواضح وموثوق، "conversational yet authoritative". الأقرب لقناة وثائقية |
+| **Cooper – Young American Male** | `BcJMy2AClTYRAgDaPpgz` | دافئ وطبيعي، و"reads as a real person, not an announcer". الأفضل للمحاور اليومية |
+| Johnny – Upbeat Professional | `JZ3e95uoTACVf6tXaaEi` | أكثر حيوية. مناسب للـ Shorts فقط |
+
+**التوصية:** Justin للحلقات الطويلة، وCooper بديلاً. وإن أردت صوتاً خاصاً بالقناة لا يملكه غيرك، أصمّم واحداً بـ Voice Design ("American male, early 30s, warm, calm, documentary narrator").
+
+⚠ **قاعدة "لا يبدو كذكاء اصطناعي":** إن استخدمنا صوتاً مولَّداً، نستخدم أسلوب الإلقاء نفسه، ونضيف room tone ونقصاً بشرياً خفيفاً (تنفس، ووقفات غير منتظمة)، ونراجع نطق الأرقام والأسماء يدوياً. ويُطلب من YouTube الإفصاح عن المحتوى المعدّل أو المولَّد (altered or synthetic content) عند الحاجة.

diff --git a/README.md b/README.md
@@ -1,8 +1,12 @@
-# The Auditor — documentary channel on real financial crimes (English)
+# The Auditor — money problems that hit real people, especially Americans (English)
+
+قناة وثائقية: الاحتيال، والديون، والفواتير، والنظام المالي، والشركات حين تخطئ. النطاق في `docs/CHANNEL.md`.
 
 | المسار | المحتوى |
 |---|---|
-| `studio/` | **مشروع Remotion الجديد** (4.0.540): المضيف v3، و8 أنواع لقطات، وعيّنة `style-reel.mp4` |
+| `docs/CHANNEL.md` | **نطاق القناة**: المحاور الخمسة، والجمهور، والمصادر الرسمية |
+| `style/VOICE.md` | **مواصفات الصوت** (رجل أمريكي بين 25 و35) والمرشّحون |
+| `studio/` | **مشروع Remotion الجديد** (4.0.540): المضيف v4 (رجل في الثلاثينات)، و8 أنواع لقطات، وعيّنة `style-reel.mp4` |
 | `style/STYLE-v3.md` | **دليل الستايل الحالي**: الألوان، والخطوط، وأنواع اللقطات، وقواعد المونتاج البشري، ومصادر المواد الحقيقية |
 | `episodes/ep01-bybit/script-en.md` | **السكريبت الإنجليزي** (~11 دقيقة) مع نوع اللقطة لكل جملة |
 | `episodes/ep01-bybit/research.md` | البحث: التسلسل الزمني و23 مصدراً (أضيفت سرقة Binance في أكتوبر 2026) |
